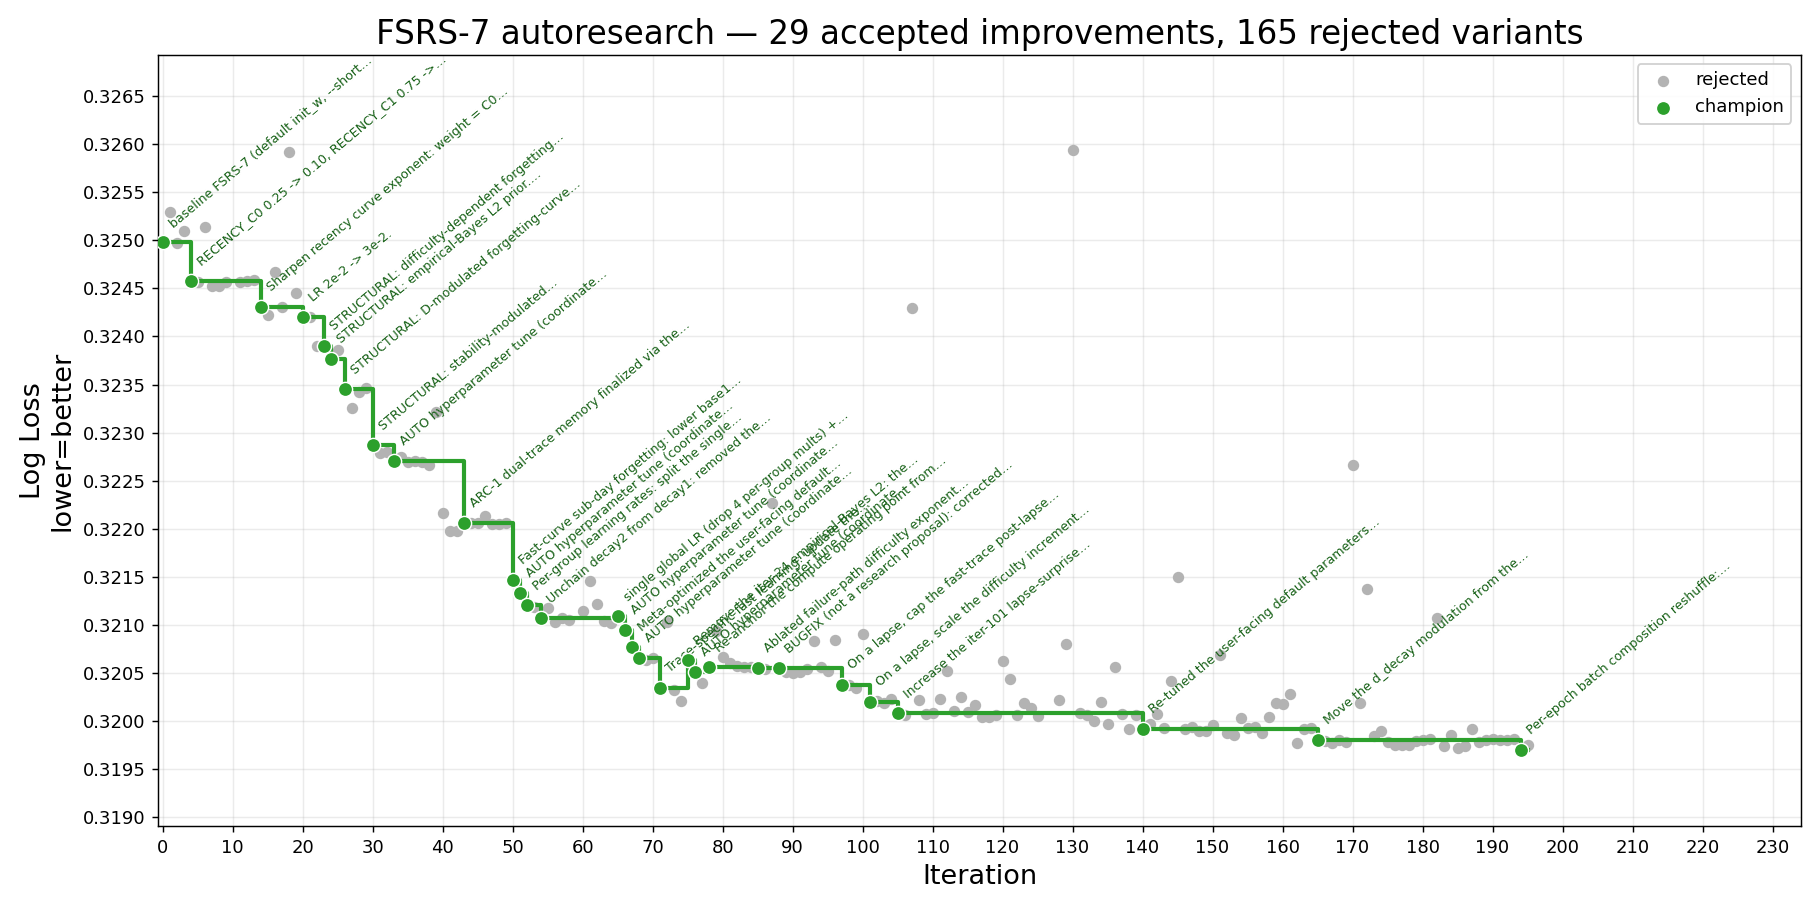
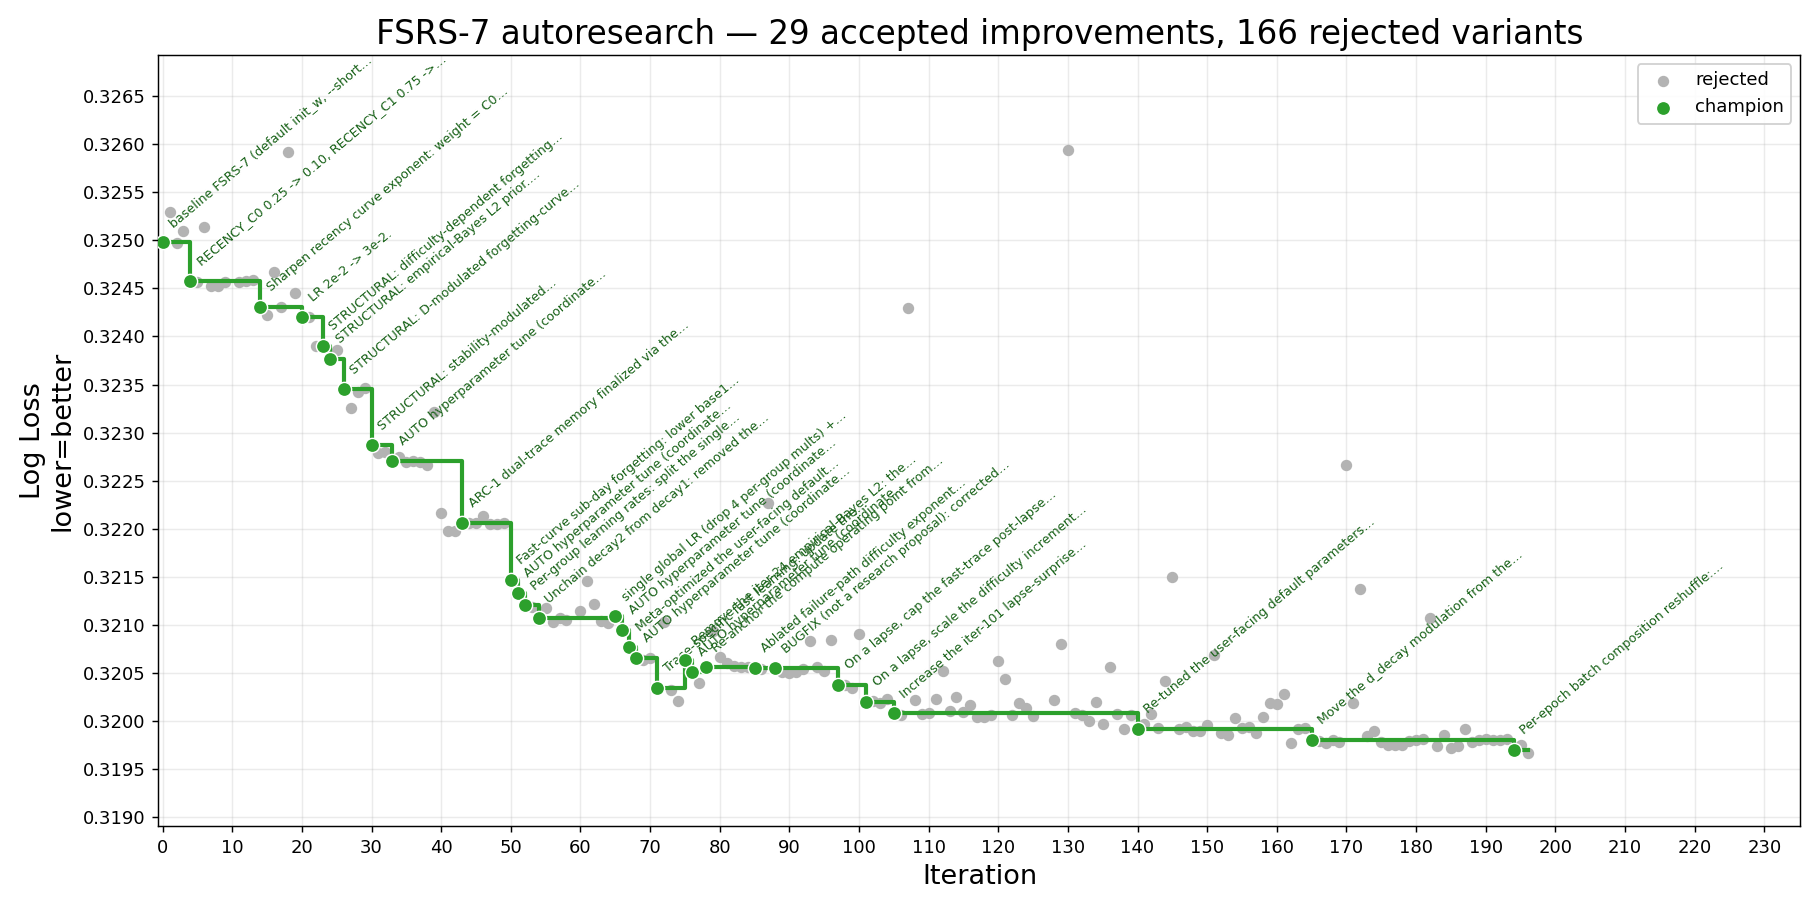
iter-196 rejected (+3.9e-5): SWA residual shrank on decorrelated champion; variance-reduction family closed on both regimes

diff --git a/result/history.md b/result/history.md
@@ -1,6 +1,6 @@
 # FSRS-7 autoresearch — iteration history
 
-_195 record(s). Generated from `history.jsonl` — do not edit by hand._
+_196 record(s). Generated from `history.jsonl` — do not edit by hand._
 
 | # | Time (UTC) | Thresh. | LL before | LL after | Δ LL | Cx before | Cx after | Δ Cx % | Status | Summary |
 |--:|---|---:|---:|---:|---:|---:|---:|---:|---|---|
@@ -199,3 +199,4 @@ _195 record(s). Generated from `history.jsonl` — do not edit by hand._
 | 193 | 2026-06-11T07:18:49 | 0.0001 | 0.31980 | 0.31981 | -0.00000 | 17,631 | 17,738 | +0.61% | rejected | Lookahead optimizer (k=5, alpha=0.5, per-row step clock, final-step forced sync; slow weights returned); bundled hp_tune. |
 | 194 | 2026-06-11T08:39:39 | 0.0001 | 0.31980 | 0.31970 | +0.00011 | 17,631 | 18,442 | +4.60% | accepted | Per-epoch batch composition reshuffle: fixed within-row shuffle composed with per-epoch affine bijection; bundled hp_tune pass. |
 | 195 | 2026-06-11T08:59:09 | 0.0001 | 0.31970 | 0.31975 | -0.00005 | 18,442 | 18,451 | +0.05% | rejected | Cosine LR floor: ETA_MIN constant wired into scheduler eta_min; value from mini-bracket; bundled hp_tune pass. |
+| 196 | 2026-06-11T09:52:39 | 0.0001 | 0.31970 | 0.31966 | +0.00004 | 18,442 | 18,607 | +0.89% | rejected | SWA tail-averaging re-probe on decorrelated champion (eta_min 0.15, start_frac 0.75); bundled hp_tune. |
